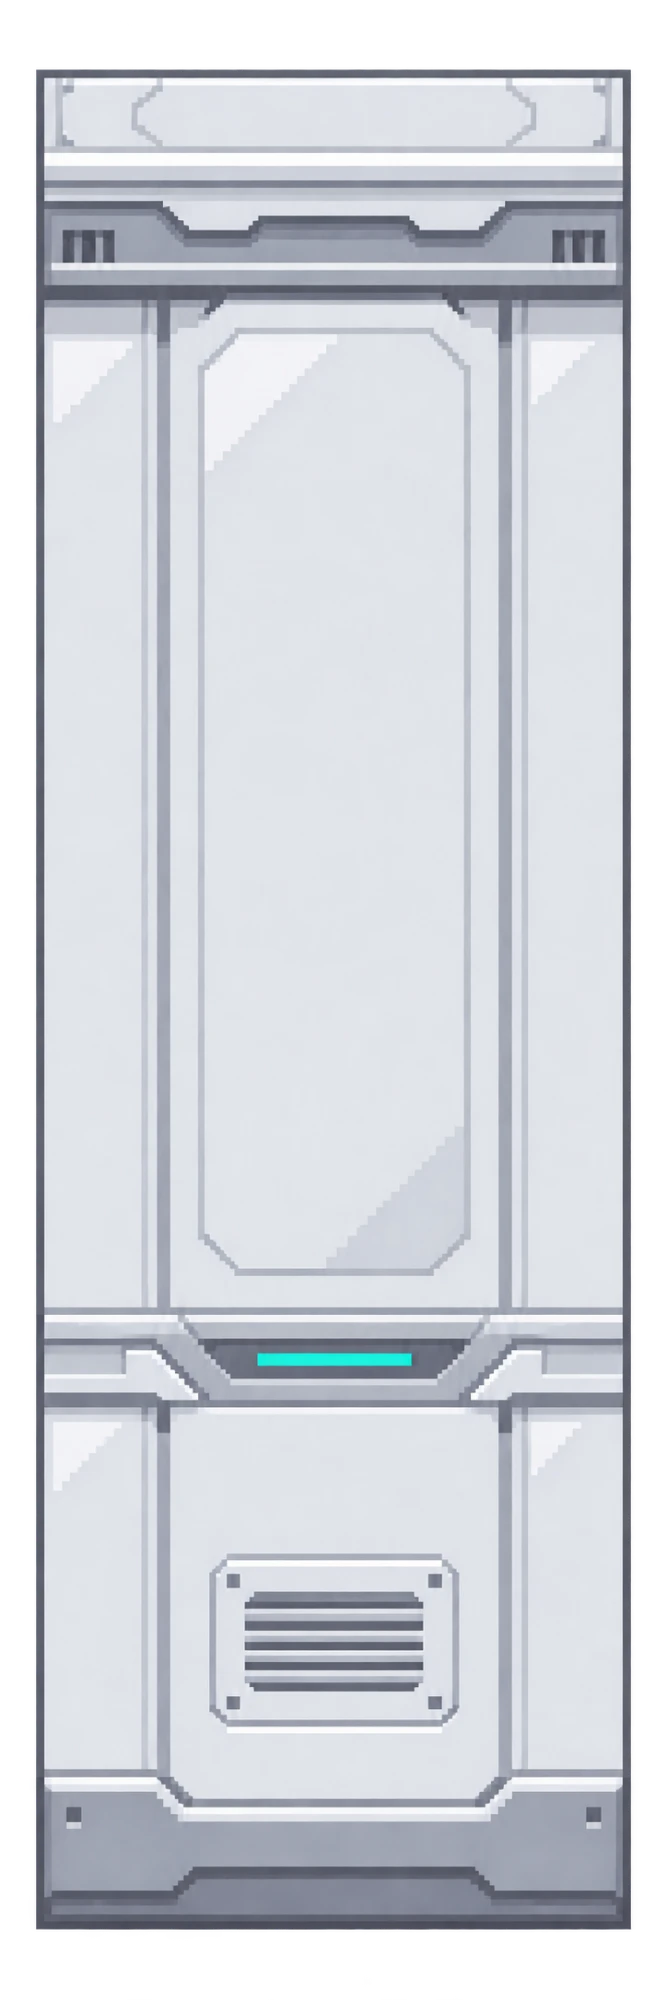
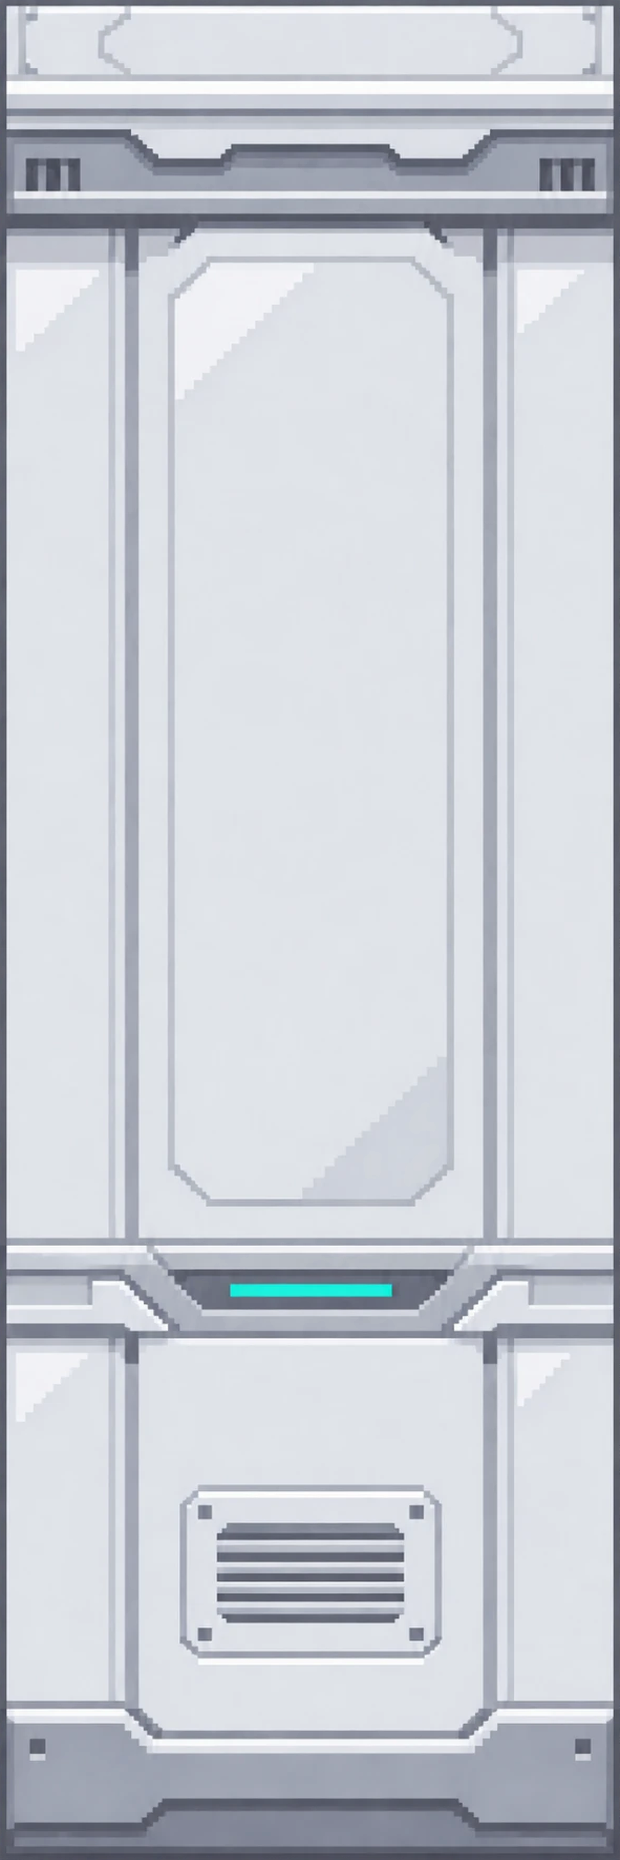
금속 패널 벽 여백을 잘라 칸에 꽉 차게 맞춤 (틈 없이 이어짐)
Claude-Session: https://claude.ai/code/session_01A1cSV8XFN8bs5D4RzYwv7v

diff --git a/tests/unit/blocks.test.js b/tests/unit/blocks.test.js
@@ -104,3 +104,18 @@ test('setImage로 등록한 그림은 image가 원본을, imageFor가 크기에 
   assert.equal(B.imageFor('없는그림', 64), null);
   assert.equal(B.image('없는그림'), null);
 });
+
+test('패널 벽은 그림이 칸에 꽉 차서 옆으로 이어 놓아도 틈이 없다', () => {
+  const { PNG } = require('pngjs');
+  const b = real.find((x) => x.id === 'panel_1');
+  assert.ok(b, 'panel_1 블록이 없어요');
+  const png = PNG.sync.read(fs.readFileSync(path.join(__dirname, '..', '..', b.file)));
+  const alphaAt = (x, y) => png.data[(y * png.width + x) * 4 + 3];
+  const opaqueShare = (points) => points.filter(([x, y]) => alphaAt(x, y) >= 240).length / points.length;
+  const cols = (x) => Array.from({ length: png.height }, (_, y) => [x, y]);
+  const rows = (y) => Array.from({ length: png.width }, (_, x) => [x, y]);
+  assert.ok(opaqueShare(cols(0)) > 0.95, '왼쪽 가장자리에 투명한 틈이 있어요');
+  assert.ok(opaqueShare(cols(png.width - 1)) > 0.95, '오른쪽 가장자리에 투명한 틈이 있어요');
+  assert.ok(opaqueShare(rows(0)) > 0.95, '위쪽 가장자리에 투명한 틈이 있어요');
+  assert.ok(opaqueShare(rows(png.height - 1)) > 0.95, '아래쪽 가장자리에 투명한 틈이 있어요');
+});

diff --git a/data/blocks.js b/data/blocks.js
@@ -5,7 +5,7 @@
   PR.BLOCK_DEFS = [
     { id: "floor_light_1", name: "연회색 바닥", layer: "floor", category: "바닥", w: 1, h: 1, solid: false, color: "#e5e8ee", file: "assets/blocks/floor_light_1.png" },
     { id: "capsule_1", name: "배양 캡슐", layer: "objects", category: "물건", w: 1, h: 2, solid: true, color: "#679fa2", file: "assets/blocks/capsule_1.png" },
-    { id: "panel_1", name: "금속 패널 벽", layer: "objects", category: "벽", w: 1, h: 3, solid: true, color: "#c8ccd4", file: "assets/blocks/panel_1.png" },
+    { id: "panel_1", name: "금속 패널 벽", layer: "objects", category: "벽", w: 1, h: 3, solid: true, color: "#c9ced5", file: "assets/blocks/panel_1.png" },
   ];
   if (typeof module !== 'undefined') module.exports = PR.BLOCK_DEFS;
 })(typeof globalThis !== 'undefined' ? globalThis : window);
